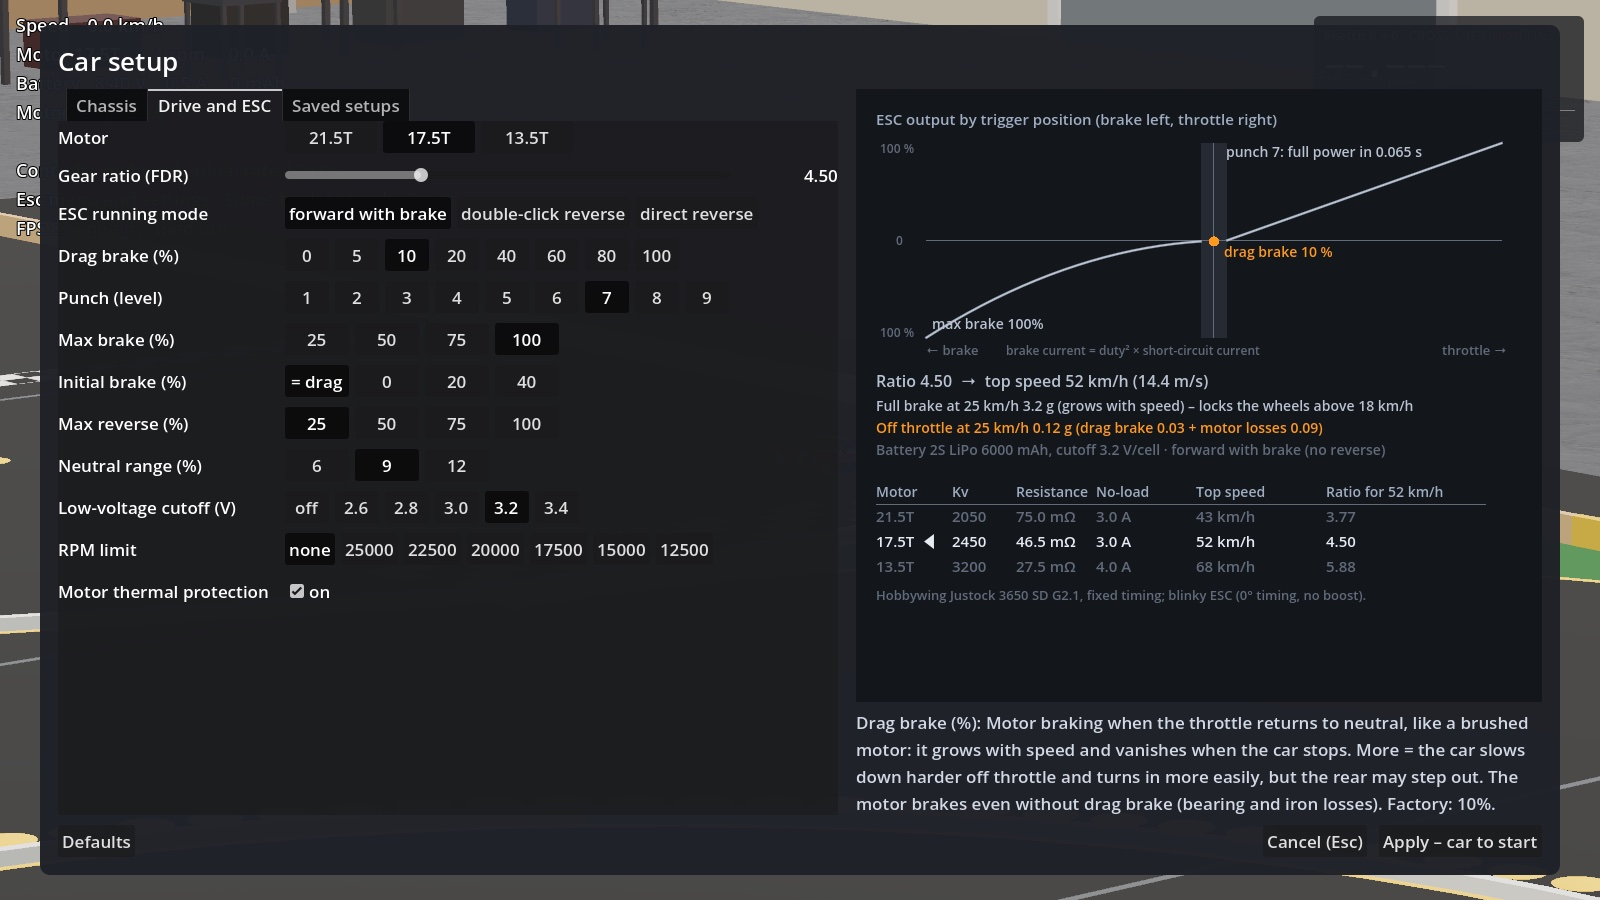
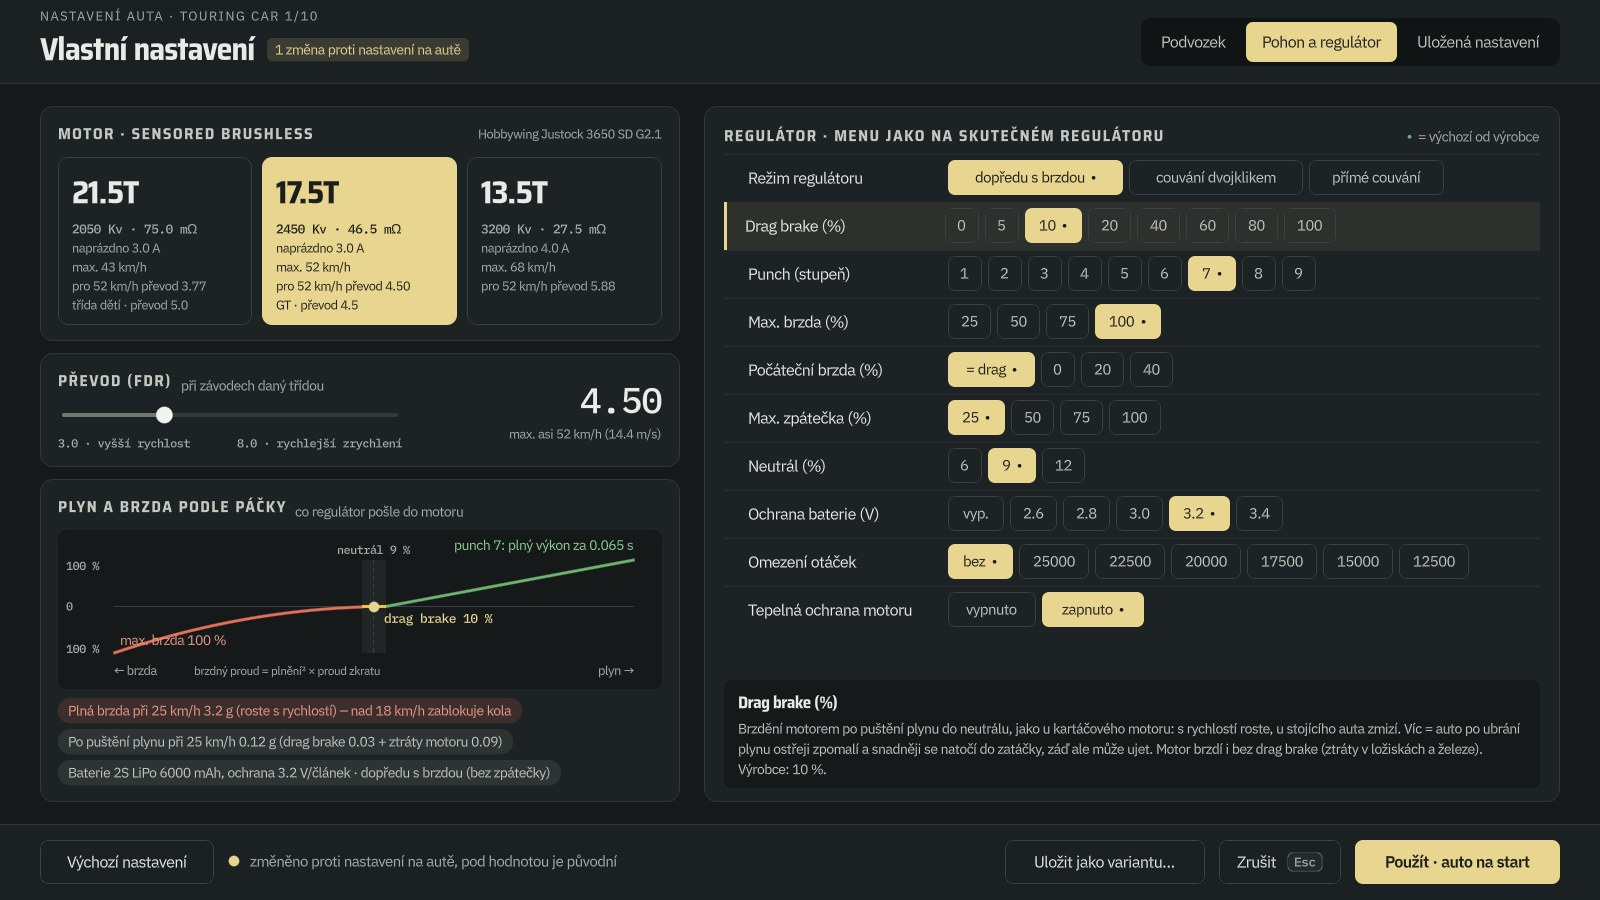
Verze 0.51: nové menu, nastavení auta a výběr trati, výchozí zjednodušená fyzika

diff --git a/index.html b/index.html
@@ -188,8 +188,8 @@ footer .wrap { display: flex; flex-wrap: wrap; gap: 8px 24px; justify-content: s
           <a class="btn-line" id="download-win" href="https://github.com/ibb-jile/onroad-rc-simulator/releases/latest/download/Onroad-RC-Simulator-Windows.zip"><span lang="cs">Windows (experimentální)</span><span lang="en">Windows (experimental)</span></a>
           <a href="#install"><span lang="cs">Jak nainstalovat</span><span lang="en">How to install</span></a>
         </div>
-        <p class="facts"><span lang="cs">Verze 0.50 · macOS 13 a novější · Mac s čipem Apple (M1 a novější) · zip 66 MB</span><span lang="en">Version 0.50 · macOS 13 or later · Mac with Apple silicon (M1 or later) · 66 MB zip</span></p>
-        <p class="facts"><span lang="cs">Windows 10 a 11 (64bit) · první sestavení, na skutečném PC zatím nevyzkoušené · zip 49 MB</span><span lang="en">Windows 10 and 11 (64-bit) · first build, not yet tried on a real PC · 49 MB zip</span></p>
+        <p class="facts"><span lang="cs">Verze 0.51 · macOS 13 a novější · Mac s čipem Apple (M1 a novější) · zip 69 MB</span><span lang="en">Version 0.51 · macOS 13 or later · Mac with Apple silicon (M1 or later) · 69 MB zip</span></p>
+        <p class="facts"><span lang="cs">Windows 10 a 11 (64bit) · první sestavení, na skutečném PC zatím nevyzkoušené · zip 52 MB</span><span lang="en">Windows 10 and 11 (64-bit) · first build, not yet tried on a real PC · 52 MB zip</span></p>
       </div>
       <aside class="board" aria-label="Lap times">
         <h3><span lang="cs">Autopilot · nejlepší kolo</span><span lang="en">Autopilot · best lap</span></h3>
@@ -201,6 +201,7 @@ footer .wrap { display: flex; flex-wrap: wrap; gap: 8px 24px; justify-content: s
           <tr><td><span lang="cs">Blansko (venkovní)</span><span lang="en">Blansko (outdoor)</span></td><td class="t">12.33<small>s</small></td></tr>
         </table>
         <p class="note"><span lang="cs">Výchozí setup: motor 17.5T, převod 4.5, koberec 26.4 × 19.8 m. Dokážeš být rychlejší?</span><span lang="en">Default setup: 17.5T motor, 4.5 ratio, 26.4 × 19.8 m carpet. Can you beat it?</span></p>
+        <p class="note"><span lang="cs">Časy jsou s plnou fyzikou, s ní byly změřené.</span><span lang="en">Times are with the full physics, which is what they were measured with.</span></p>
       </aside>
     </div>
   </div>
@@ -226,7 +227,7 @@ footer .wrap { display: flex; flex-wrap: wrap; gap: 8px 24px; justify-content: s
       <div class="features">
         <div>
           <h3><span lang="cs">Fyzika auta</span><span lang="en">Car physics</span></h3>
-          <p><span lang="cs">Project Chrono s krokem <span class="unit">1/1200 s</span>: zavěšení s dvojitými rameny, náklon, přenos váhy, flexe podvozku, přední spool a pneumatiky naladěné na koberec. Auto se při chybě roztočí, jako to skutečné. Pro slabší počítače nebo soupeře jde zvolit zjednodušenou fyziku, která počítá asi stokrát rychleji.</span><span lang="en">Project Chrono with a <span class="unit">1/1200 s</span> step: double-wishbone suspension, roll, weight transfer, chassis flex, front spool and tires tuned for carpet. Make a mistake and the car spins, just like the real one. For slower computers or the opponent you can switch to simplified physics, which runs about a hundred times faster.</span></p>
+          <p><span lang="cs">Project Chrono s krokem <span class="unit">1/1200 s</span>: zavěšení s dvojitými rameny, náklon, přenos váhy, flexe podvozku, přední spool a pneumatiky naladěné na koberec. Auto se při chybě roztočí, jako to skutečné. Ve výchozím stavu hra běží se zjednodušenou fyzikou, která počítá rychleji; plnou, přesnější fyziku (zná poklice, nízké pásy a flexi podvozku) zapneš v menu › Fyzika.</span><span lang="en">Project Chrono with a <span class="unit">1/1200 s</span> step: double-wishbone suspension, roll, weight transfer, chassis flex, front spool and tires tuned for carpet. Make a mistake and the car spins, just like the real one. By default the game runs simplified physics, which is faster to compute; you switch to the full, more accurate physics (it knows the dots, low dividers and chassis flex) in the menu › Physics.</span></p>
         </div>
         <div>
           <h3><span lang="cs">Motor, regulátor, baterie</span><span lang="en">Motor, ESC, battery</span></h3>
@@ -285,12 +286,16 @@ footer .wrap { display: flex; flex-wrap: wrap; gap: 8px 24px; justify-content: s
           <figcaption><span lang="cs">Tribuna v Blansku: budova s krytou plošinou řidičů v patře a schodištěm na boku.</span><span lang="en">The Blansko stand: a building with a covered driver platform upstairs and a staircase on the side.</span></figcaption>
         </figure>
         <figure>
-          <img src="img/setup-esc.jpg" width="1600" height="900" loading="lazy" alt="Car setup dialog with ESC settings and a throttle and brake graph">
-          <figcaption><span lang="cs">Regulátor: graf plynu a brzdy, maximálka a od jaké rychlosti brzda zamyká kola.</span><span lang="en">ESC: throttle and brake curve, top speed, and the speed above which the brake locks the wheels.</span></figcaption>
+          <img src="img/setup-esc.jpg" width="1600" height="900" loading="lazy" alt="Car setup dialog, Drive and ESC tab: motor cards, gear ratio, throttle and brake curve and ESC menu settings">
+          <figcaption><span lang="cs">Pohon a regulátor: motor jako karty, převod, graf plynu a brzdy a menu regulátoru jako na skutečném ESC. Změny proti uložené variantě jsou žlutě.</span><span lang="en">Drive and ESC: motors as cards, gear ratio, throttle and brake curve and the ESC menu like on a real one. Changes from the saved variant are yellow.</span></figcaption>
         </figure>
         <figure>
-          <img src="img/setup-chassis.jpg" width="1600" height="900" loading="lazy" alt="Chassis setup dialog with a top view of the car and front and rear axle diagrams">
-          <figcaption><span lang="cs">Podvozek: každá změna je vidět ve schématu auta.</span><span lang="en">Chassis: every change shows up in the car diagram.</span></figcaption>
+          <img src="img/setup-chassis.jpg" width="1600" height="900" loading="lazy" alt="Chassis setup dialog with parameters in groups, front and rear axle side by side, and a top view of the car with axle diagrams">
+          <figcaption><span lang="cs">Podvozek: parametry ve skupinách, přední a zadní náprava vedle sebe a každá změna je vidět ve schématu auta.</span><span lang="en">Chassis: parameters in groups, front and rear axle side by side, and every change shows up in the car diagram.</span></figcaption>
+        </figure>
+        <figure>
+          <img src="img/tracks.jpg" width="1600" height="900" loading="lazy" alt="Track picker with a list of tracks with thumbnails, a hall and outdoor filter, search and a plan of the selected track">
+          <figcaption><span lang="cs">Výběr trati: seznam s plánky, filtr hala a venkovní, hledání a náhled vybrané trati.</span><span lang="en">Track picker: a list with plans, a hall and outdoor filter, search and a preview of the selected track.</span></figcaption>
         </figure>
       </div>
     </div>

diff --git a/src/page.html b/src/page.html
@@ -182,8 +182,8 @@ footer .wrap { display: flex; flex-wrap: wrap; gap: 8px 24px; justify-content: s
           <a class="btn-line" id="download-win" href="https://github.com/ibb-jile/onroad-rc-simulator/releases/latest/download/Onroad-RC-Simulator-Windows.zip"><span lang="cs">Windows (experimentální)</span><span lang="en">Windows (experimental)</span></a>
           <a href="#install"><span lang="cs">Jak nainstalovat</span><span lang="en">How to install</span></a>
         </div>
-        <p class="facts"><span lang="cs">Verze 0.50 · macOS 13 a novější · Mac s čipem Apple (M1 a novější) · zip 66 MB</span><span lang="en">Version 0.50 · macOS 13 or later · Mac with Apple silicon (M1 or later) · 66 MB zip</span></p>
-        <p class="facts"><span lang="cs">Windows 10 a 11 (64bit) · první sestavení, na skutečném PC zatím nevyzkoušené · zip 49 MB</span><span lang="en">Windows 10 and 11 (64-bit) · first build, not yet tried on a real PC · 49 MB zip</span></p>
+        <p class="facts"><span lang="cs">Verze 0.51 · macOS 13 a novější · Mac s čipem Apple (M1 a novější) · zip 69 MB</span><span lang="en">Version 0.51 · macOS 13 or later · Mac with Apple silicon (M1 or later) · 69 MB zip</span></p>
+        <p class="facts"><span lang="cs">Windows 10 a 11 (64bit) · první sestavení, na skutečném PC zatím nevyzkoušené · zip 52 MB</span><span lang="en">Windows 10 and 11 (64-bit) · first build, not yet tried on a real PC · 52 MB zip</span></p>
       </div>
       <aside class="board" aria-label="Lap times">
         <h3><span lang="cs">Autopilot · nejlepší kolo</span><span lang="en">Autopilot · best lap</span></h3>
@@ -195,6 +195,7 @@ footer .wrap { display: flex; flex-wrap: wrap; gap: 8px 24px; justify-content: s
           <tr><td><span lang="cs">Blansko (venkovní)</span><span lang="en">Blansko (outdoor)</span></td><td class="t">12.33<small>s</small></td></tr>
         </table>
         <p class="note"><span lang="cs">Výchozí setup: motor 17.5T, převod 4.5, koberec 26.4 × 19.8 m. Dokážeš být rychlejší?</span><span lang="en">Default setup: 17.5T motor, 4.5 ratio, 26.4 × 19.8 m carpet. Can you beat it?</span></p>
+        <p class="note"><span lang="cs">Časy jsou s plnou fyzikou, s ní byly změřené.</span><span lang="en">Times are with the full physics, which is what they were measured with.</span></p>
       </aside>
     </div>
   </div>
@@ -220,7 +221,7 @@ footer .wrap { display: flex; flex-wrap: wrap; gap: 8px 24px; justify-content: s
       <div class="features">
         <div>
           <h3><span lang="cs">Fyzika auta</span><span lang="en">Car physics</span></h3>
-          <p><span lang="cs">Project Chrono s krokem <span class="unit">1/1200 s</span>: zavěšení s dvojitými rameny, náklon, přenos váhy, flexe podvozku, přední spool a pneumatiky naladěné na koberec. Auto se při chybě roztočí, jako to skutečné. Pro slabší počítače nebo soupeře jde zvolit zjednodušenou fyziku, která počítá asi stokrát rychleji.</span><span lang="en">Project Chrono with a <span class="unit">1/1200 s</span> step: double-wishbone suspension, roll, weight transfer, chassis flex, front spool and tires tuned for carpet. Make a mistake and the car spins, just like the real one. For slower computers or the opponent you can switch to simplified physics, which runs about a hundred times faster.</span></p>
+          <p><span lang="cs">Project Chrono s krokem <span class="unit">1/1200 s</span>: zavěšení s dvojitými rameny, náklon, přenos váhy, flexe podvozku, přední spool a pneumatiky naladěné na koberec. Auto se při chybě roztočí, jako to skutečné. Ve výchozím stavu hra běží se zjednodušenou fyzikou, která počítá rychleji; plnou, přesnější fyziku (zná poklice, nízké pásy a flexi podvozku) zapneš v menu › Fyzika.</span><span lang="en">Project Chrono with a <span class="unit">1/1200 s</span> step: double-wishbone suspension, roll, weight transfer, chassis flex, front spool and tires tuned for carpet. Make a mistake and the car spins, just like the real one. By default the game runs simplified physics, which is faster to compute; you switch to the full, more accurate physics (it knows the dots, low dividers and chassis flex) in the menu › Physics.</span></p>
         </div>
         <div>
           <h3><span lang="cs">Motor, regulátor, baterie</span><span lang="en">Motor, ESC, battery</span></h3>
@@ -279,12 +280,16 @@ footer .wrap { display: flex; flex-wrap: wrap; gap: 8px 24px; justify-content: s
           <figcaption><span lang="cs">Tribuna v Blansku: budova s krytou plošinou řidičů v patře a schodištěm na boku.</span><span lang="en">The Blansko stand: a building with a covered driver platform upstairs and a staircase on the side.</span></figcaption>
         </figure>
         <figure>
-          <img src="img/setup-esc.jpg" width="1600" height="900" loading="lazy" alt="Car setup dialog with ESC settings and a throttle and brake graph">
-          <figcaption><span lang="cs">Regulátor: graf plynu a brzdy, maximálka a od jaké rychlosti brzda zamyká kola.</span><span lang="en">ESC: throttle and brake curve, top speed, and the speed above which the brake locks the wheels.</span></figcaption>
+          <img src="img/setup-esc.jpg" width="1600" height="900" loading="lazy" alt="Car setup dialog, Drive and ESC tab: motor cards, gear ratio, throttle and brake curve and ESC menu settings">
+          <figcaption><span lang="cs">Pohon a regulátor: motor jako karty, převod, graf plynu a brzdy a menu regulátoru jako na skutečném ESC. Změny proti uložené variantě jsou žlutě.</span><span lang="en">Drive and ESC: motors as cards, gear ratio, throttle and brake curve and the ESC menu like on a real one. Changes from the saved variant are yellow.</span></figcaption>
         </figure>
         <figure>
-          <img src="img/setup-chassis.jpg" width="1600" height="900" loading="lazy" alt="Chassis setup dialog with a top view of the car and front and rear axle diagrams">
-          <figcaption><span lang="cs">Podvozek: každá změna je vidět ve schématu auta.</span><span lang="en">Chassis: every change shows up in the car diagram.</span></figcaption>
+          <img src="img/setup-chassis.jpg" width="1600" height="900" loading="lazy" alt="Chassis setup dialog with parameters in groups, front and rear axle side by side, and a top view of the car with axle diagrams">
+          <figcaption><span lang="cs">Podvozek: parametry ve skupinách, přední a zadní náprava vedle sebe a každá změna je vidět ve schématu auta.</span><span lang="en">Chassis: parameters in groups, front and rear axle side by side, and every change shows up in the car diagram.</span></figcaption>
+        </figure>
+        <figure>
+          <img src="img/tracks.jpg" width="1600" height="900" loading="lazy" alt="Track picker with a list of tracks with thumbnails, a hall and outdoor filter, search and a plan of the selected track">
+          <figcaption><span lang="cs">Výběr trati: seznam s plánky, filtr hala a venkovní, hledání a náhled vybrané trati.</span><span lang="en">Track picker: a list with plans, a hall and outdoor filter, search and a preview of the selected track.</span></figcaption>
         </figure>
       </div>
     </div>
